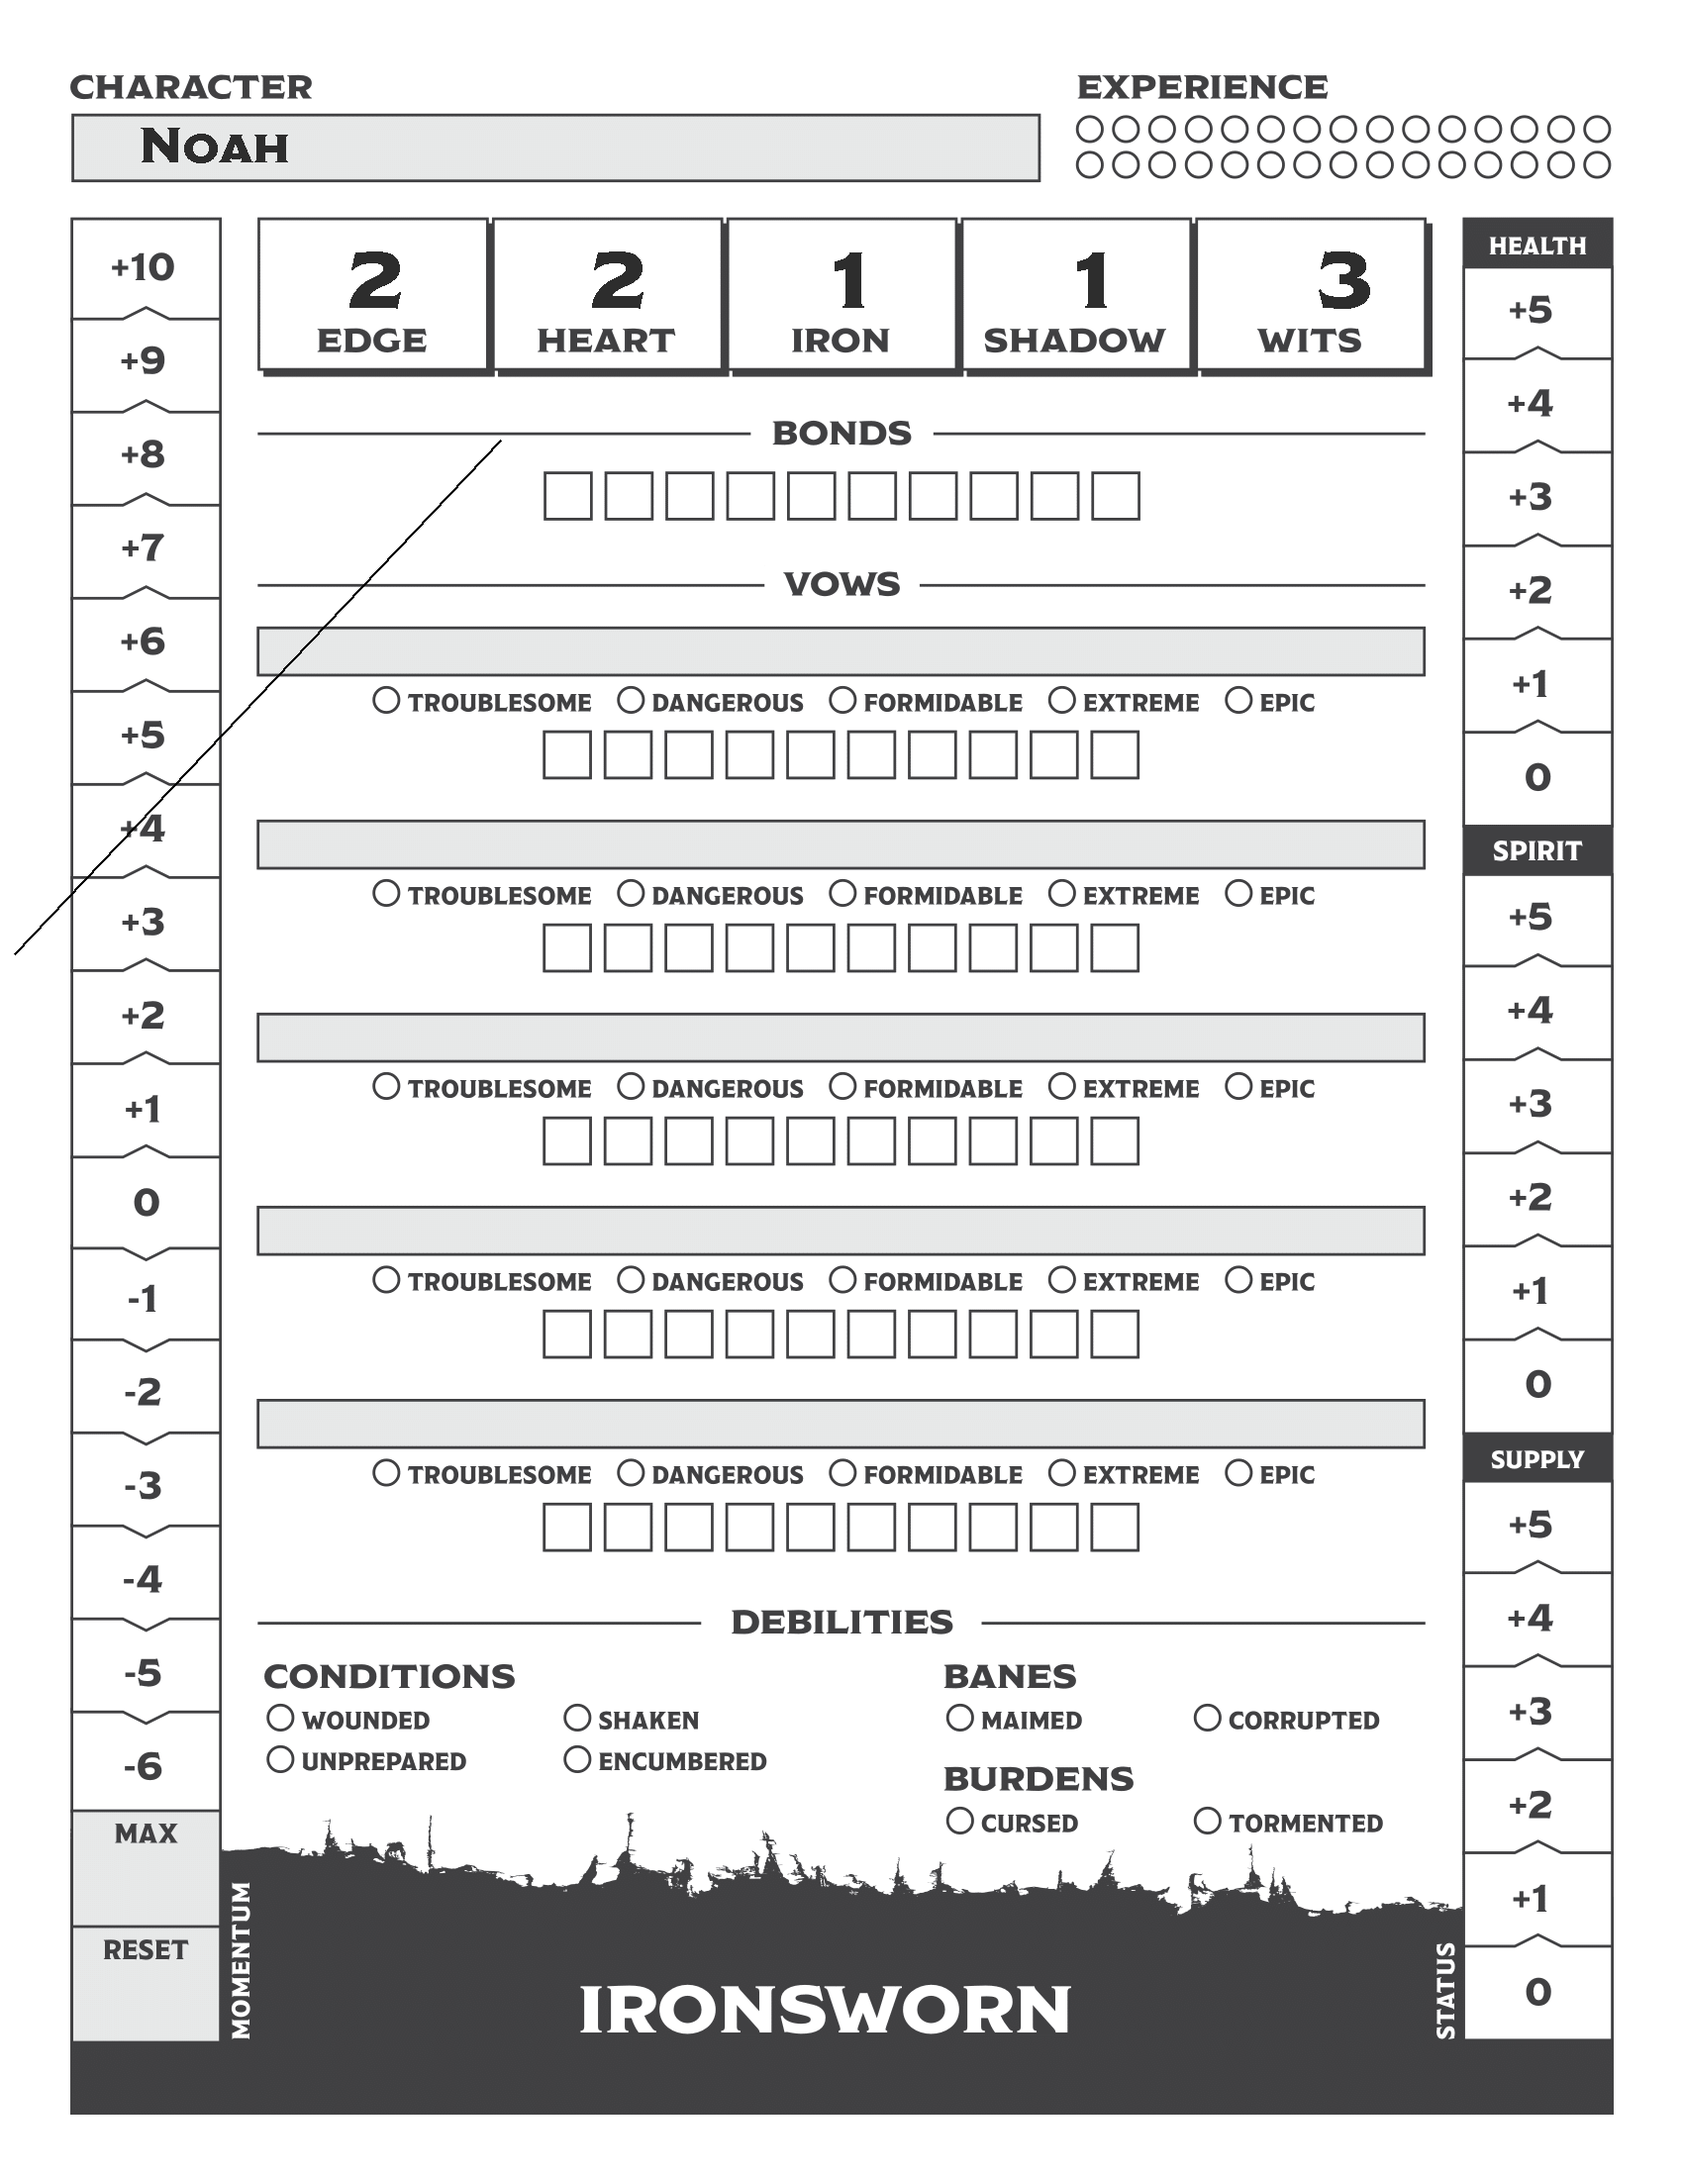
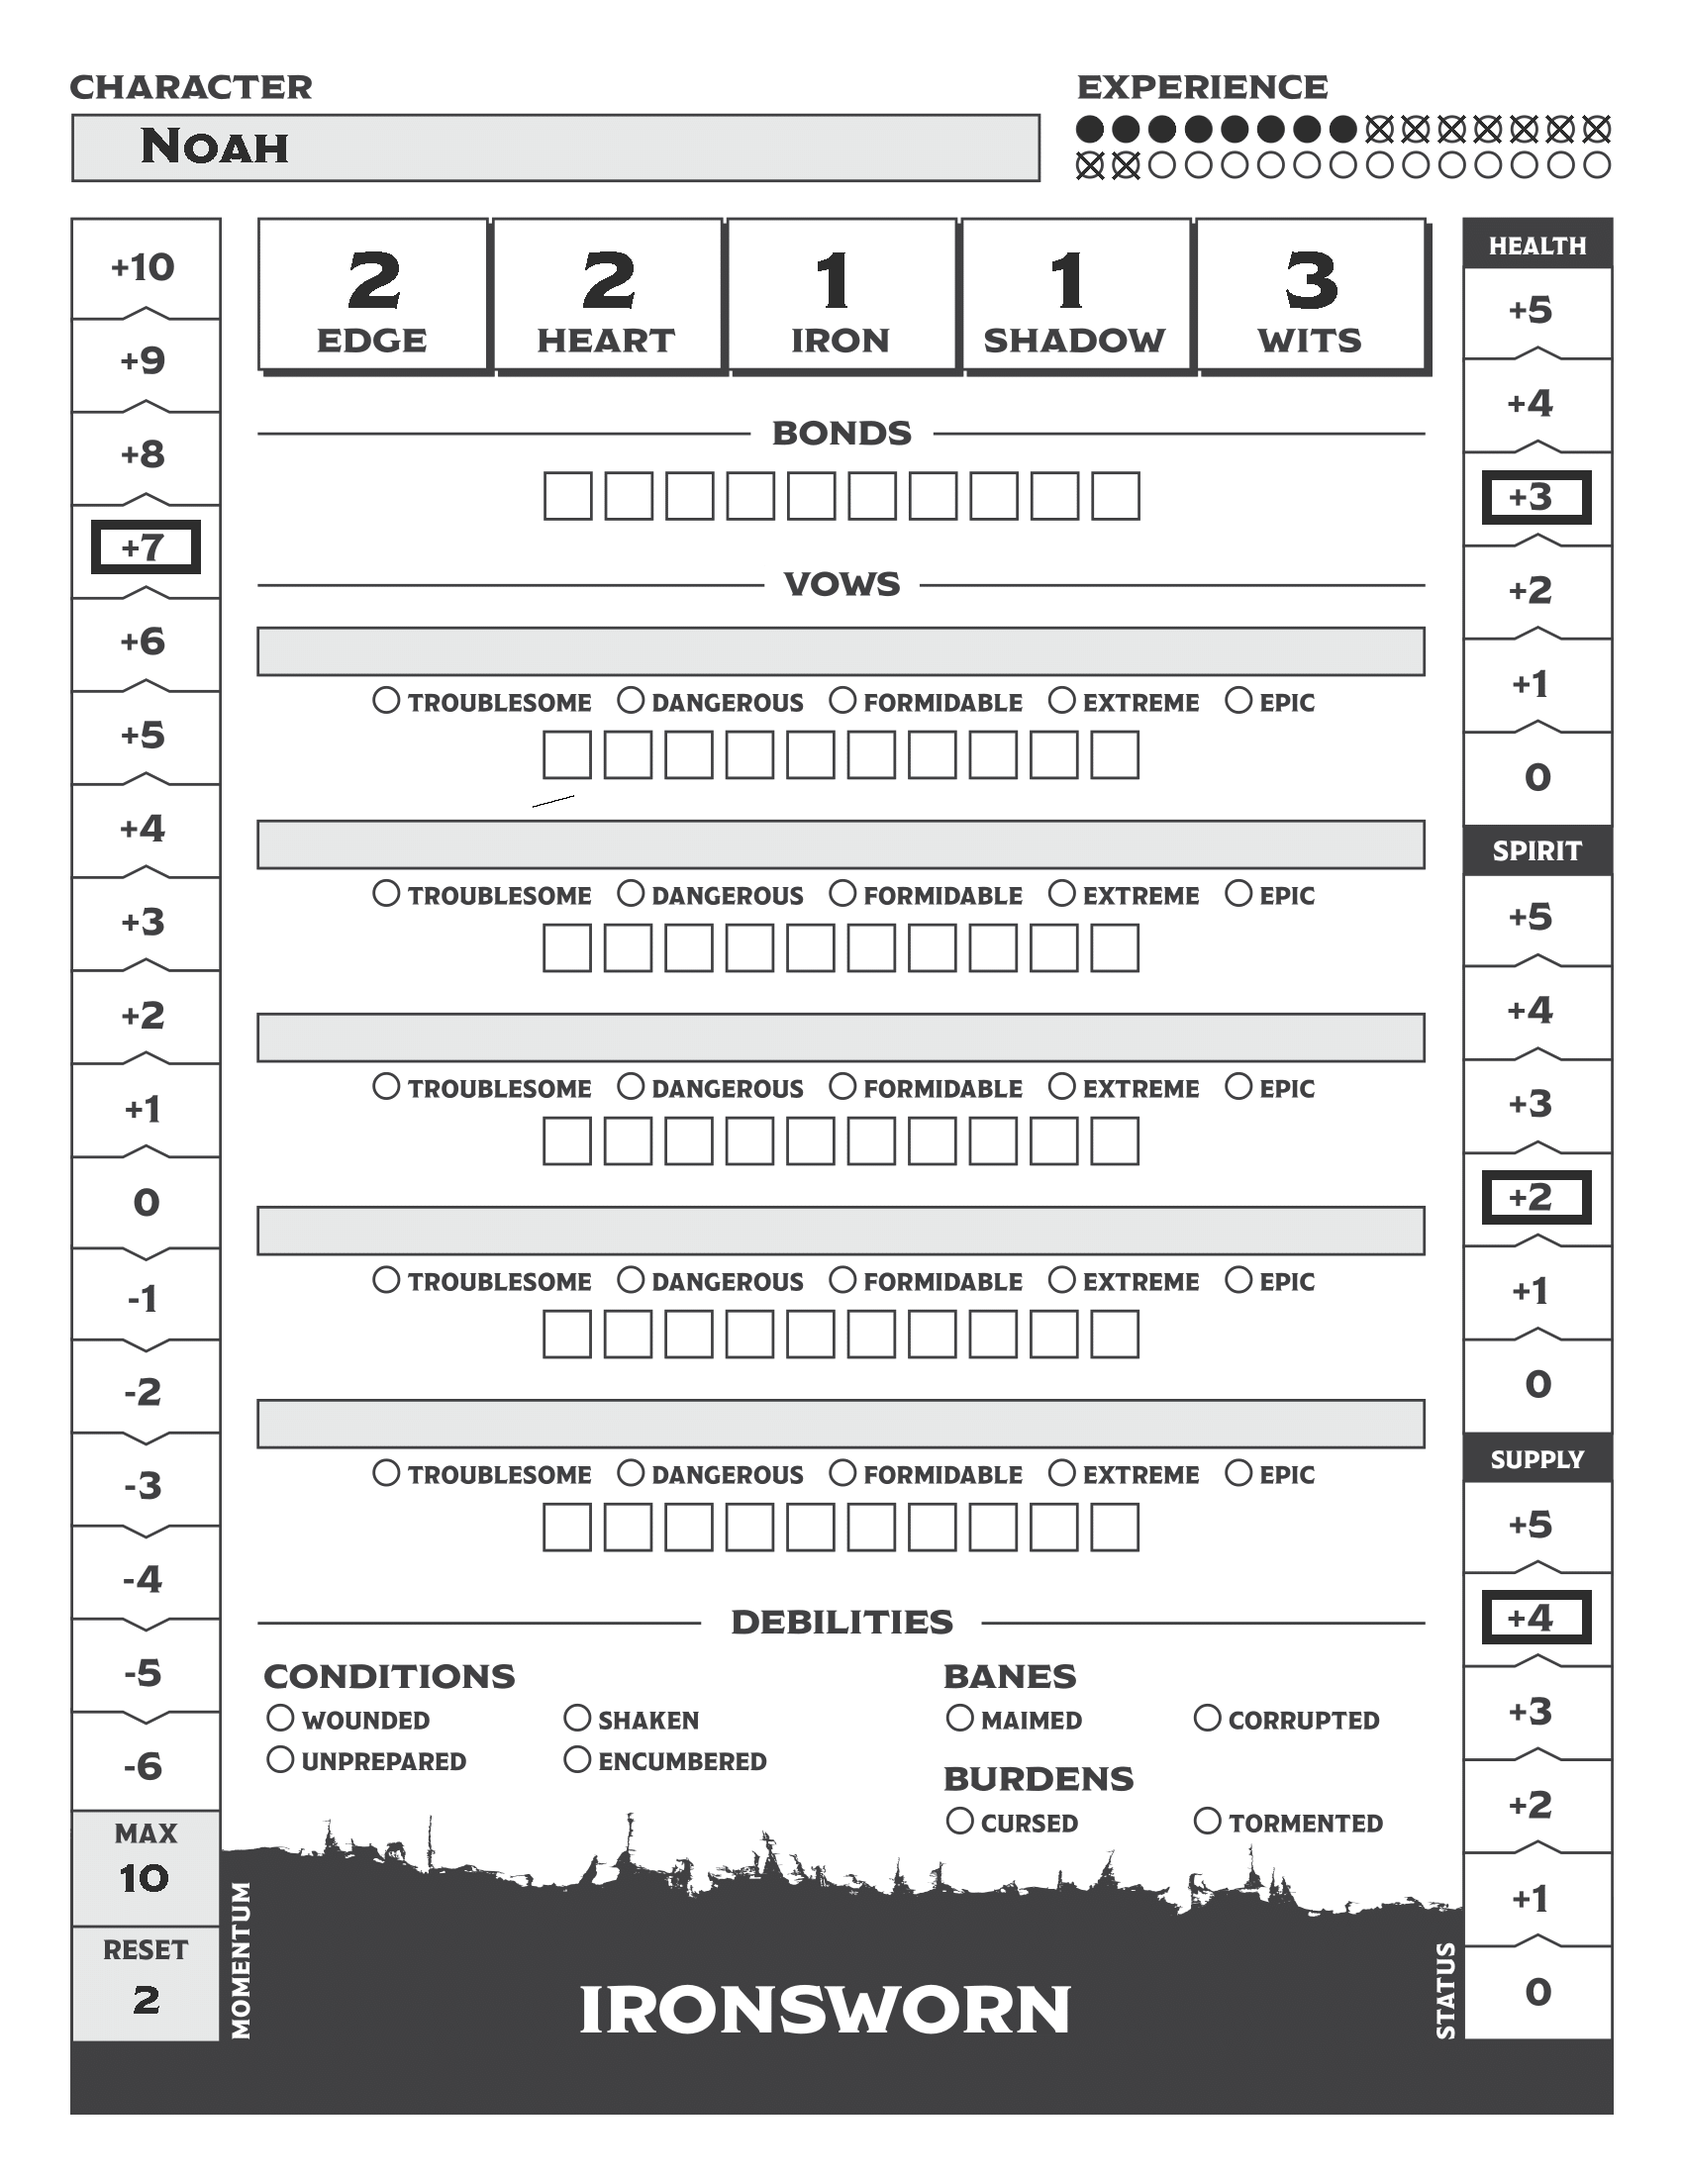
Started creating sheet

diff --git a/src/character.py b/src/character.py
@@ -32,14 +32,68 @@ async def create_sheet(chat_id, image_path: str) -> str:
     draw.text((140, 120), data["name"], fill = mycolor, font = myfont(50))
     
     # Insert the Stats
-    x = 350
-    dx = 235
+    x = 349
+    dx = 237
     draw.text((x, 240), str(data["stats"]["edge"]), fill = mycolor, font = myfont(80))
     draw.text((x+dx, 240), str(data["stats"]["hearth"]), fill = mycolor, font = myfont(80))
     draw.text((x+2*dx, 240), str(data["stats"]["iron"]), fill = mycolor, font = myfont(80))
     draw.text((x+3*dx, 240), str(data["stats"]["shadow"]), fill = mycolor, font = myfont(80))
     draw.text((x+4*dx, 240), str(data["stats"]["wits"]), fill = mycolor, font = myfont(80))
 
+    # Insert Exp
+    dots = data['experience']['used']
+    xs = data['experience']['gained']
+    positions_x = [1088.5+_*36.48 for _ in range(15)]
+    positions_y = [117,154]
+    for i,y in enumerate(positions_y):
+        for j,x in enumerate(positions_x):
+            if (j+i*15)<dots:
+                draw.ellipse([x,y,x+26,y+26], fill=mycolor)
+            elif (j+i*15)<xs:
+                draw.line([(x, y), (x+26, y+26)], fill=mycolor, width=5)
+                draw.line([(x, y+26), (x+26, y)], fill=mycolor, width=5)
+
+    # Insert Momentum
+    max =  data['momentum']['max']
+    if len(str(max))==1:
+        draw.text((134, 1875), str(max), fill = mycolor, font = myfont(40))
+    else:
+        draw.text((120, 1875), str(max), fill = mycolor, font = myfont(40))
+    reset =  data['momentum']['reset']
+    if len(str(reset))==1: 
+        draw.text((134, 1998), str(reset), fill = mycolor, font = myfont(40))
+    else:
+        draw.text((120, 1998), str(reset), fill = mycolor, font = myfont(40))
+    current =  data['momentum']['current']
+    c_c_x = 147.9
+    c_c_y = 1214-current*94.5-(0.5*current if current<0 else 0)
+    top_left = (c_c_x - 110 // 2, c_c_y - 55 // 2)
+    bottom_right = (c_c_x + 110 // 2, c_c_y + 55 // 2)
+    draw.rectangle([top_left, bottom_right], outline=mycolor, width=10)
+
+    # Insert Health
+    health =  data['state']['health']
+    c_c_x = 1552
+    c_c_y = 785.5-health*94.5
+    top_left = (c_c_x - 110 // 2, c_c_y - 55 // 2)
+    bottom_right = (c_c_x + 110 // 2, c_c_y + 55 // 2)
+    draw.rectangle([top_left, bottom_right], outline=mycolor, width=10)
+
+    # Insert Spirit
+    spirit =  data['state']['spirit']
+    c_c_x = 1552
+    c_c_y = 1398.5-spirit*94.5
+    top_left = (c_c_x - 110 // 2, c_c_y - 55 // 2)
+    bottom_right = (c_c_x + 110 // 2, c_c_y + 55 // 2)
+    draw.rectangle([top_left, bottom_right], outline=mycolor, width=10)
+
+    # Insert Supply
+    supply =  data['state']['supply']
+    c_c_x = 1552
+    c_c_y = 2011.5-supply*94.5
+    top_left = (c_c_x - 110 // 2, c_c_y - 55 // 2)
+    bottom_right = (c_c_x + 110 // 2, c_c_y + 55 // 2)
+    draw.rectangle([top_left, bottom_right], outline=mycolor, width=10)
 
     # Draw a black line from (300,300) to (400,400)
     draw.line([(random.random()*1000, random.random()*1000), (random.random()*1000, random.random()*1000)], fill="black", width=2)
